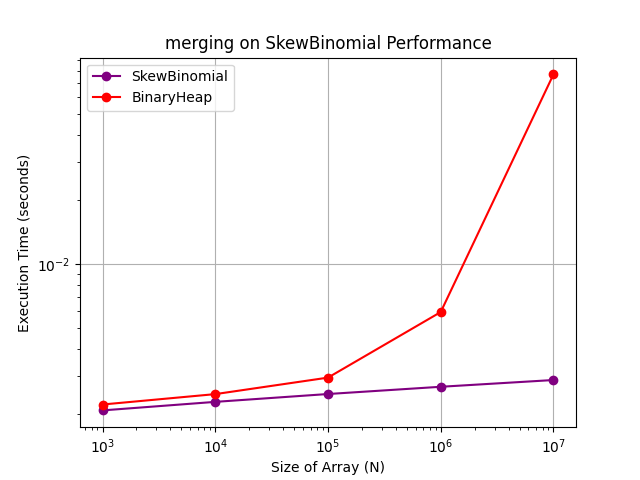
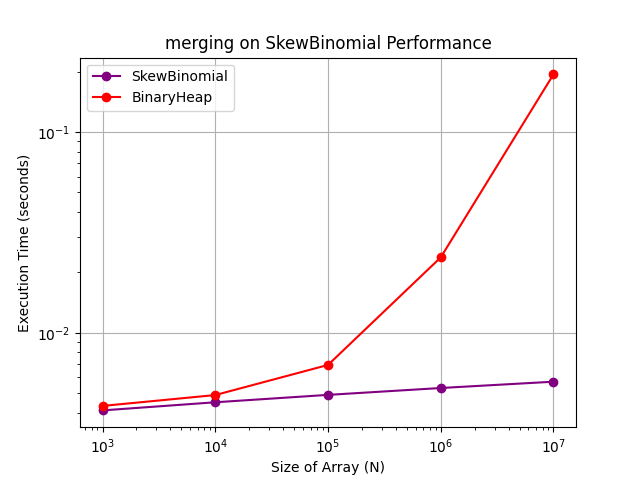
gata

diff --git a/charts/main.py b/charts/main.py
@@ -12,7 +12,7 @@ def process_data():
         algorithm_name = bench_list[idx]
         idx += 1
         idx %= 4
-        trial = bench_trials[int(tidx/15)]
+        trial = bench_trials[int(tidx/20)]
         tidx+=1
         if algorithm_name not in data:
             data[algorithm_name] = {}
